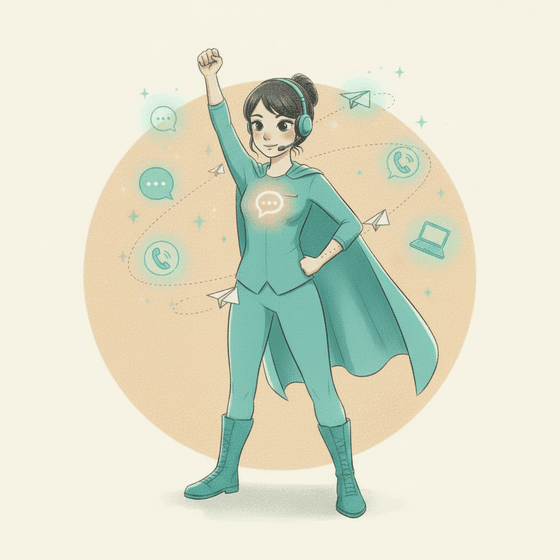
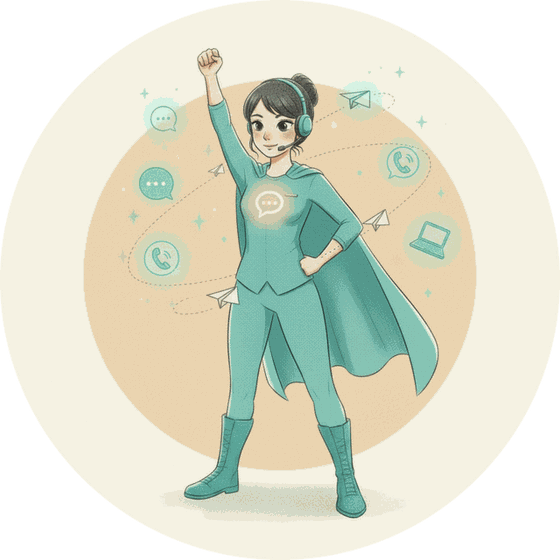
README: Mila Agent in a round frame (transparent corners, 560 px, 45 KB); the version badge reads tags, not release pages — v1.7.2 and v1.7.3 have tags but no pages yet

diff --git a/README.md b/README.md
@@ -1,5 +1,5 @@
 <p align="center">
-  <a href="https://milaagent.com"><img src="docs/assets/mila-agent-hero.png" alt="Mila Agent — a superheroine in headphones with a cape, one fist raised, chat and Telegram icons around her" width="280"></a>
+  <a href="https://milaagent.com"><img src="docs/assets/mila-agent-hero.png" alt="Mila Agent — a superheroine in headphones with a cape, one fist raised, chat and Telegram icons around her, in a round frame" width="280"></a>
 </p>
 
 <h1 align="center">Mila Agent</h1>
@@ -19,7 +19,7 @@ Free, open source, Apache-2.0. Made with ❤ in Uzbekistan.</p>
 </p>
 
 <p align="center">
-  <a href="https://github.com/shakhruz/mila-agent/releases/latest"><img src="https://img.shields.io/github/v/release/shakhruz/mila-agent?sort=semver&label=release" alt="Latest release"></a>
+  <a href="https://github.com/shakhruz/mila-agent/tags"><img src="https://img.shields.io/github/v/tag/shakhruz/mila-agent?sort=semver&label=version" alt="Latest version"></a>
   <a href="https://github.com/shakhruz/mila-agent/actions/workflows/tests.yml"><img src="https://github.com/shakhruz/mila-agent/actions/workflows/tests.yml/badge.svg" alt="tests"></a>
   <a href="LICENSE"><img src="https://img.shields.io/badge/license-Apache--2.0-blue" alt="Apache-2.0"></a>
   <img src="https://img.shields.io/badge/built%20on-Claude%20Code-555" alt="Built on Claude Code">

diff --git a/README.ru.md b/README.ru.md
@@ -6,7 +6,7 @@
 
 [English](README.md) · [中文](README.zh-CN.md) · **Русский** · [Oʻzbekcha](README.uz.md)
 
-[![tests](https://github.com/shakhruz/mila-agent/actions/workflows/tests.yml/badge.svg)](https://github.com/shakhruz/mila-agent/actions/workflows/tests.yml) [![Latest release](https://img.shields.io/github/v/release/shakhruz/mila-agent?sort=semver&label=release)](https://github.com/shakhruz/mila-agent/releases/latest) [![License](https://img.shields.io/github/license/shakhruz/mila-agent)](LICENSE)
+[![tests](https://github.com/shakhruz/mila-agent/actions/workflows/tests.yml/badge.svg)](https://github.com/shakhruz/mila-agent/actions/workflows/tests.yml) [![Latest version](https://img.shields.io/github/v/tag/shakhruz/mila-agent?sort=semver&label=version)](https://github.com/shakhruz/mila-agent/tags) [![License](https://img.shields.io/github/license/shakhruz/mila-agent)](LICENSE)
 
 Мила — часть большего. Прочитайте наш Манифест: [milagpt.io/manifest](https://milagpt.io/manifest/)
 

diff --git a/README.zh-CN.md b/README.zh-CN.md
@@ -6,7 +6,7 @@
 
 [English](README.md) · **中文** · [Русский](README.ru.md) · [Oʻzbekcha](README.uz.md)
 
-[![tests](https://github.com/shakhruz/mila-agent/actions/workflows/tests.yml/badge.svg)](https://github.com/shakhruz/mila-agent/actions/workflows/tests.yml) [![Latest release](https://img.shields.io/github/v/release/shakhruz/mila-agent?sort=semver&label=release)](https://github.com/shakhruz/mila-agent/releases/latest) [![License](https://img.shields.io/github/license/shakhruz/mila-agent)](LICENSE)
+[![tests](https://github.com/shakhruz/mila-agent/actions/workflows/tests.yml/badge.svg)](https://github.com/shakhruz/mila-agent/actions/workflows/tests.yml) [![Latest version](https://img.shields.io/github/v/tag/shakhruz/mila-agent?sort=semver&label=version)](https://github.com/shakhruz/mila-agent/tags) [![License](https://img.shields.io/github/license/shakhruz/mila-agent)](LICENSE)
 
 **[当前版本](https://github.com/shakhruz/mila-agent/releases/latest)** · [更新内容](CHANGELOG.md)
 

diff --git a/README.uz.md b/README.uz.md
@@ -4,7 +4,7 @@
 
 *Iliqlik uchun yaratilgan.*
 
-[![tests](https://github.com/shakhruz/mila-agent/actions/workflows/tests.yml/badge.svg)](https://github.com/shakhruz/mila-agent/actions/workflows/tests.yml) [![Latest release](https://img.shields.io/github/v/release/shakhruz/mila-agent?sort=semver&label=release)](https://github.com/shakhruz/mila-agent/releases/latest) [![License](https://img.shields.io/github/license/shakhruz/mila-agent)](LICENSE)
+[![tests](https://github.com/shakhruz/mila-agent/actions/workflows/tests.yml/badge.svg)](https://github.com/shakhruz/mila-agent/actions/workflows/tests.yml) [![Latest version](https://img.shields.io/github/v/tag/shakhruz/mila-agent?sort=semver&label=version)](https://github.com/shakhruz/mila-agent/tags) [![License](https://img.shields.io/github/license/shakhruz/mila-agent)](LICENSE)
 
 [English](README.md) · [中文](README.zh-CN.md) · [Русский](README.ru.md) · **Oʻzbekcha**
 
